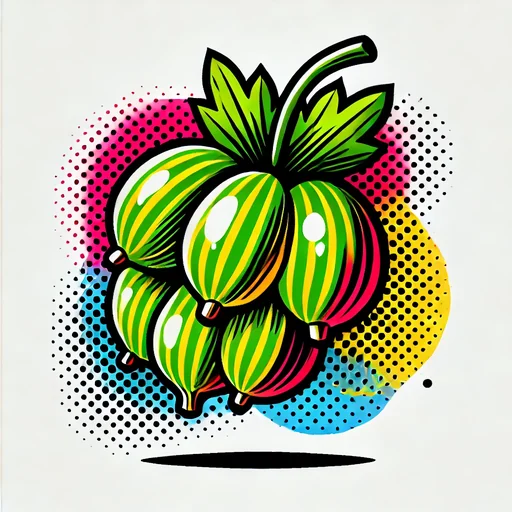
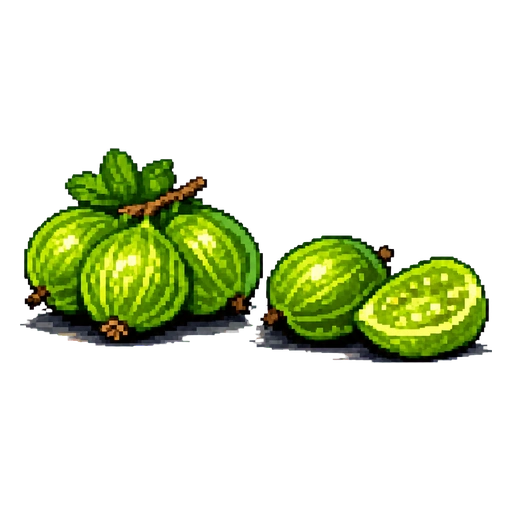
art: refresh grapefruit and gooseberry illustrations

diff --git a/docs/PRODUCT_ASSET_AUDIT_2026-07-05.md b/docs/PRODUCT_ASSET_AUDIT_2026-07-05.md
@@ -5,11 +5,11 @@ Cel: przygotowac bezpieczna liste grafik produktow do podmiany bez mieszania teg
 ## Podsumowanie
 
 - Pliki WebP: 219
-- Laczy rozmiar katalogu `assets/images`: 8.97 MiB
-- Kandydaci high priority: 160
+- Laczy rozmiar katalogu `assets/images`: 8.89 MiB
+- Kandydaci high priority: 159
 - Kandydaci medium priority: 1
 - Kandydaci low priority: 9
-- Obrazy wygladajace jak szablon/karta: 160
+- Obrazy wygladajace jak szablon/karta: 159
 - Widoczne produkty mobilne: 208
 - Widoczne produkty bez grafiki: 0
 - Obrazy bez rekordu produktu: 4
@@ -25,7 +25,6 @@ Cel: przygotowac bezpieczna liste grafik produktow do podmiany bez mieszania teg
 
 | Priorytet | Plik | Rozmiar | Heurystyka | Powody |
 |---|---:|---:|---|---|
-| high | `Agrest.webp` | 56.5 KiB | card-template | widoczny szablon karty lub biala etykieta |
 | high | `Tuńczyk błękitnopłetwy.webp` | 33.5 KiB | card-template | widoczny szablon karty lub biala etykieta |
 | high | `Makrela atlantycka.webp` | 32.7 KiB | card-template | widoczny szablon karty lub biala etykieta |
 | high | `Śledź wędzony.webp` | 32.5 KiB | card-template | widoczny szablon karty lub biala etykieta |
@@ -85,6 +84,7 @@ Cel: przygotowac bezpieczna liste grafik produktow do podmiany bez mieszania teg
 | high | `Szparagi.webp` | 27.3 KiB | card-template | widoczny szablon karty lub biala etykieta |
 | high | `Wołowina, udziec, pełny kawałek, chudy i tłusty.webp` | 27.3 KiB | card-template | widoczny szablon karty lub biala etykieta |
 | high | `Endywia.webp` | 27.3 KiB | card-template | widoczny szablon karty lub biala etykieta |
+| high | `Rabarbar.webp` | 27.3 KiB | card-template | widoczny szablon karty lub biala etykieta |
 
 ## Najwieksze pliki
 
@@ -104,7 +104,7 @@ Cel: przygotowac bezpieczna liste grafik produktow do podmiany bez mieszania teg
 | `Woda gazowana.webp` | 119.1 KiB | ok |
 | `Limonka.webp` | 116.5 KiB | ok |
 | `Brokuły.webp` | 114.6 KiB | ok |
-| `Grejpfrut.webp` | 113.7 KiB | ok |
+| `Kantalupa.webp` | 112.1 KiB | ok |
 
 ## Pokrycie katalogu mobilnego
 

diff --git a/CHANGELOG.md b/CHANGELOG.md
@@ -28,6 +28,8 @@ wersjonowanie wg [SemVer](https://semver.org/).
   zachowanym cieniem kontaktowym o banany, cebulę, ananasa, awokado, świeże
   brzoskwinie, granaty i truskawki. Świeże brzoskwinie mają również bezpieczny
   alias ASCII dla Androida.
+- Do tej samej serii dodano grejpfrut i agrest, zachowując przezroczyste tło,
+  pikselowy cień kontaktowy i budżet rozmiaru zasobów mobilnych.
 - Zaktualizowano Pillow do 12.3.0, pypdf do 6.14.2, ttkbootstrap do 1.20.4,
   Ruff do 0.15.22 i mypy do 2.3.0. Android zachowuje Pillow 11.3.0 wymagane
   przez oficjalną recepturę python-for-android 2026.05.09 do czasu osobnego
